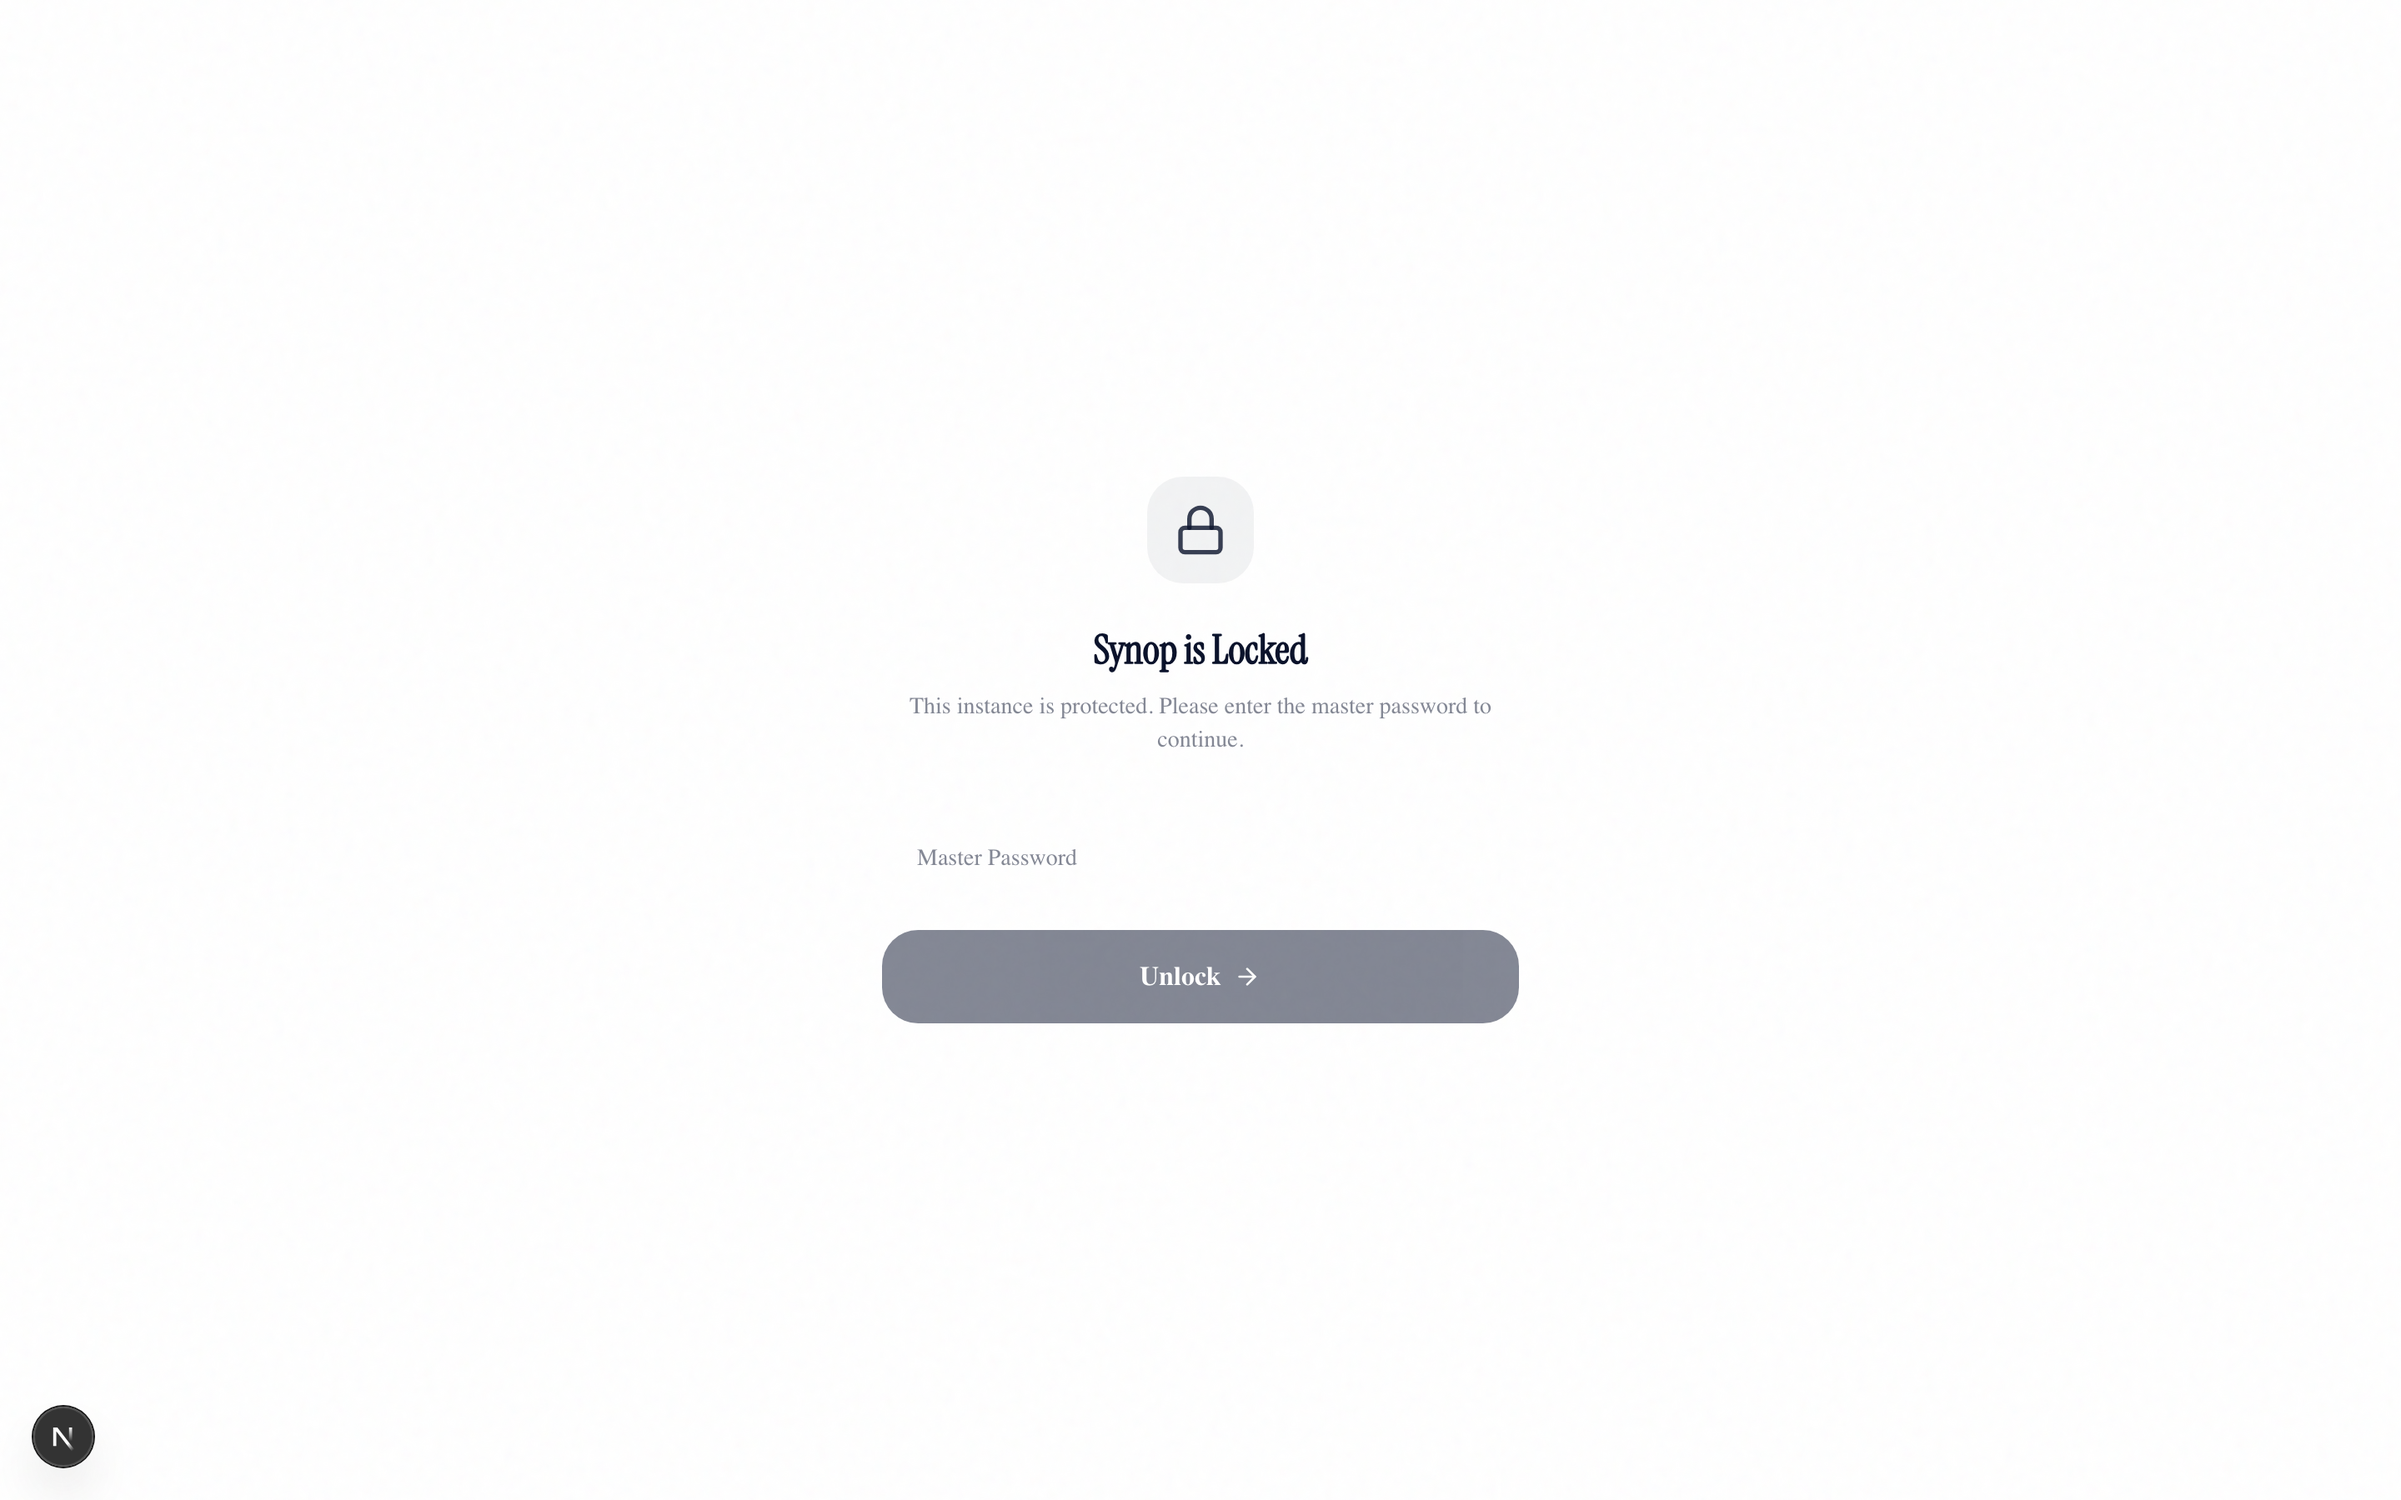
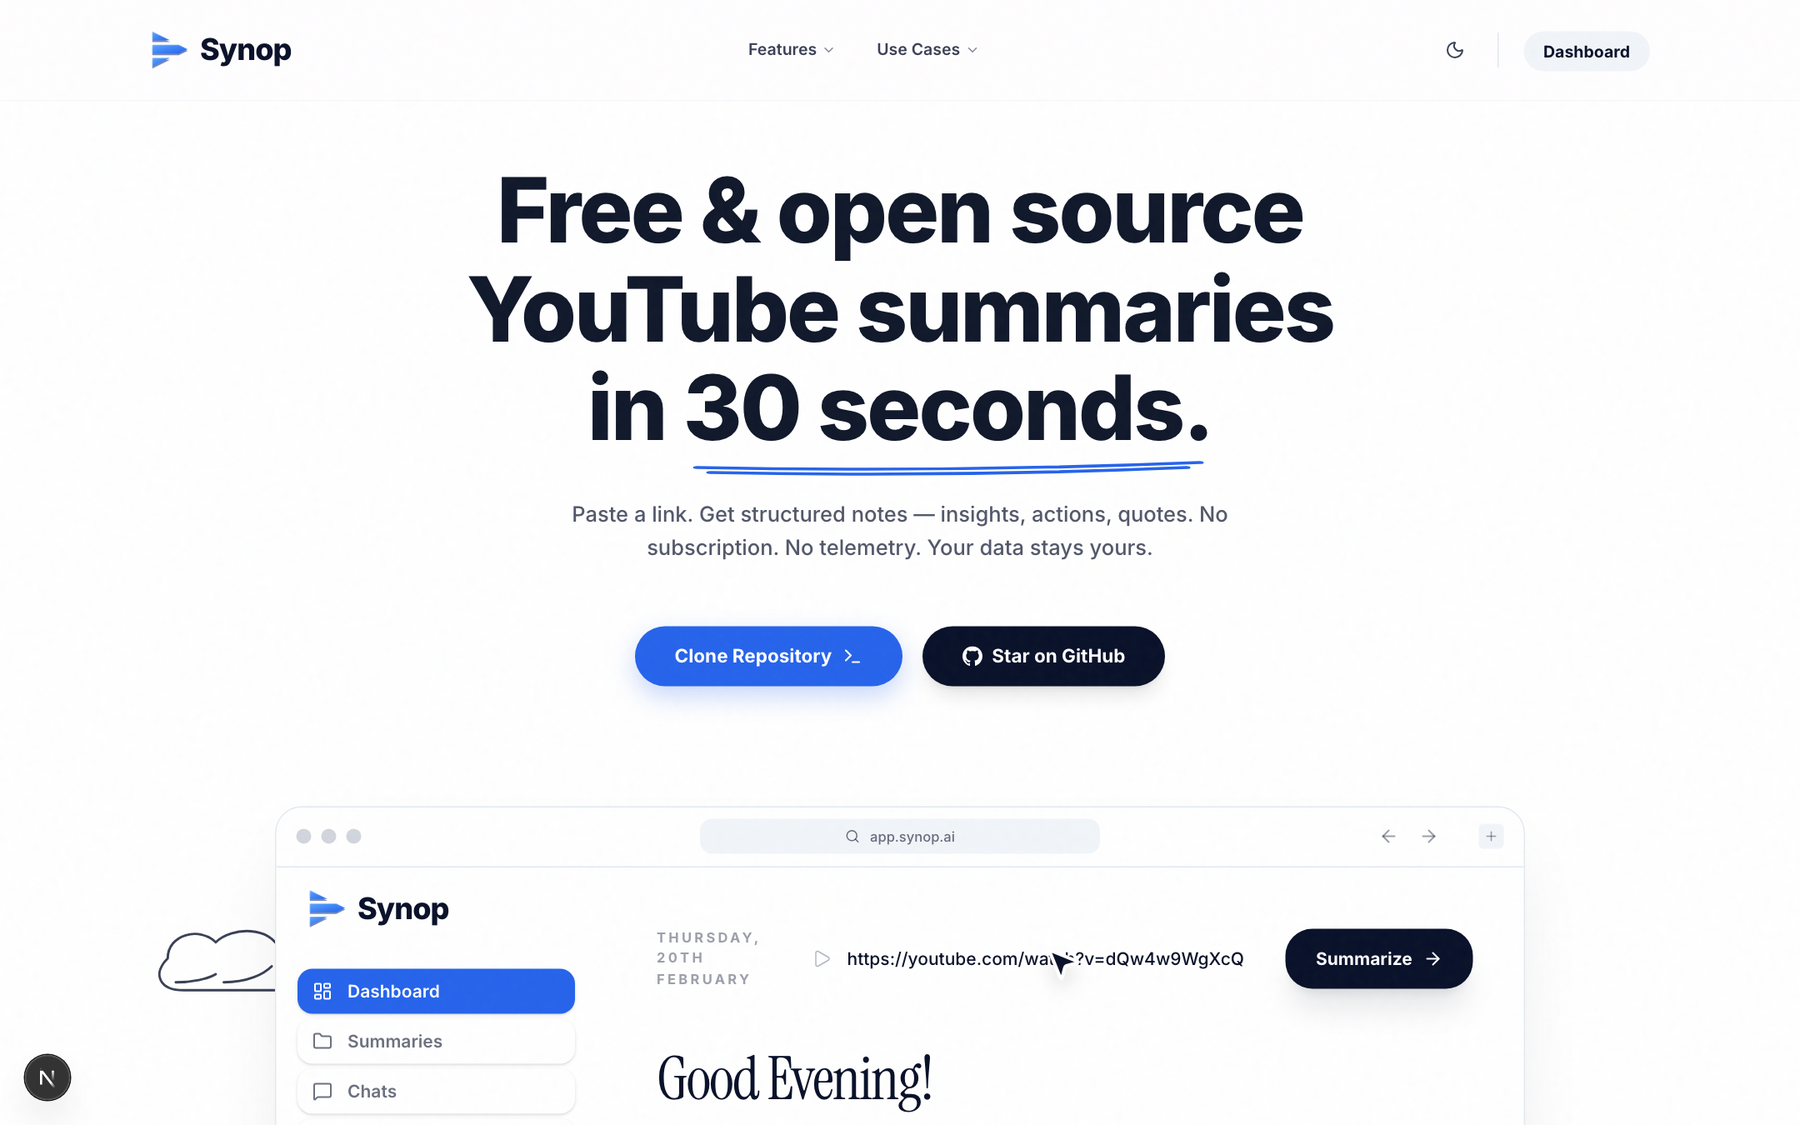
v2.0.0: powerful README with real dashboard screenshots
- Version bump to 2.0.0 + shields/badges in README
- New screenshot gallery: landing, Briefing, Summaries, Library, Channels,
  Settings, summary analysis, Study Mode (captured live via Playwright)
- Screenshot script for maintainers (scripts/screenshots.js)
- Remove stale old-version screenshots

diff --git a/scripts/screenshots.js b/scripts/screenshots.js
@@ -1,0 +1,62 @@
+// Generate README screenshots. Requires the dev server running (npm run dev -p 3001).
+// Usage: node scripts/screenshots.js
+const { chromium } = require('playwright');
+
+const BASE = 'http://localhost:3001';
+const OUT = 'public/screenshots';
+
+(async () => {
+  const browser = await chromium.launch();
+  const page = await browser.newPage({ viewport: { width: 1440, height: 900 }, deviceScaleFactor: 1.5 });
+  // Seed a persona so the dashboard renders in "student mode".
+  await page.addInitScript(() => {
+    try {
+      localStorage.setItem('synop_persona', 'student');
+      localStorage.setItem('synop_language', 'English');
+    } catch {}
+  });
+
+  const shot = async (name) => {
+    await page.waitForTimeout(2200);
+    await page.screenshot({ path: `${OUT}/${name}.png` });
+    console.log('  saved', name);
+  };
+
+  console.log('→ landing');
+  await page.goto(BASE + '/', { waitUntil: 'load' });
+  await shot('landing');
+
+  console.log('→ briefing (dashboard default)');
+  await page.goto(BASE + '/dashboard', { waitUntil: 'load' });
+  await page.waitForSelector('text=Your Briefing', { timeout: 15000 }).catch(() => {});
+  await shot('dashboard-briefing');
+
+  console.log('→ summaries');
+  await page.getByText('Summaries', { exact: true }).first().click({ timeout: 5000 }).catch(() => {});
+  await shot('dashboard-summaries');
+
+  console.log('→ library');
+  await page.getByText('Library', { exact: true }).first().click({ timeout: 5000 }).catch(() => {});
+  await page.waitForTimeout(3000);
+  await shot('dashboard-library');
+
+  console.log('→ channels');
+  await page.getByText('Channels', { exact: true }).first().click({ timeout: 5000 }).catch(() => {});
+  await shot('dashboard-channels');
+
+  console.log('→ settings');
+  await page.getByText('Settings', { exact: true }).first().click({ timeout: 5000 }).catch(() => {});
+  await shot('dashboard-settings');
+
+  console.log('→ summary (topics)');
+  await page.goto(BASE + '/summary/okSKt_C_SE8', { waitUntil: 'load' });
+  await page.waitForTimeout(4500);
+  await shot('summary');
+
+  console.log('→ study mode');
+  await page.getByText('Study Mode', { exact: true }).first().click({ timeout: 5000 }).catch(() => {});
+  await shot('study-mode');
+
+  await browser.close();
+  console.log('done');
+})();

diff --git a/README.md b/README.md
@@ -1,115 +1,144 @@
 <div align="center">
-  <img src="/logo.svg" alt="Synop" width="64" height="64" />
+  <img src="public/logo.svg" alt="Synop" width="72" height="72" />
 
   <h1 align="center">Synop</h1>
 
   <p align="center">
-    <strong>Turn any YouTube video into a study deck, a research brief, or a shareable note.</strong>
+    <strong>Your YouTube watch-time, turned into a study deck, a research brief, or a shareable note.</strong>
     <br />
-    Free · open source · bring-your-own-key. It reshapes itself around <em>who you are</em> — student, researcher, or creator.
+    A persona-aware AI tool that reshapes every video around <em>who you are</em> — student, researcher, or creator.
   </p>
 
   <p align="center">
-    <a href="#features">Features</a> •
-    <a href="#quick-start">Quick Start</a> •
-    <a href="#bring-your-own-keys">BYOK</a> •
-    <a href="#tech-stack">Tech Stack</a> •
-    <a href="#license">License</a>
+    <a href="https://github.com/sharadvc/synop/releases"><img src="https://img.shields.io/badge/version-2.0.0-blue" alt="Version 2.0.0" /></a>
+    <img src="https://img.shields.io/badge/license-MIT-green" alt="MIT License" />
+    <img src="https://img.shields.io/badge/Next.js-16-black" alt="Next.js 16" />
+    <img src="https://img.shields.io/badge/stack-OpenAI--compatible-purple" alt="Any OpenAI-compatible provider" />
+    <img src="https://img.shields.io/badge/PRs-welcome-orange" alt="PRs welcome" />
+    <img src="https://img.shields.io/github/stars/sharadvc/synop" alt="GitHub stars" />
+  </p>
+
+  <p align="center">
+    <strong>100% free · open source · bring your own key · runs entirely on your machine</strong>
   </p>
 </div>
 
 ---
 
-## What is Synop?
+## Why Synop?
 
-Synop is a **persona-aware** YouTube-to-knowledge tool. Paste a link and it doesn't just summarize — it reshapes the output around your workflow:
+Most "YouTube summarizers" give everyone the same generic summary. Synop doesn't.
 
-- 🎓 **Student** → lecture notes, flashcards, quiz, spaced-repetition review, whole-course Anki exports
-- 🔬 **Researcher** → dense, citation-grade summaries, claim fact-checking, bias analysis
-- ✍ **Creator** → quotable moments, resources, and frameworks you can repurpose
+**It asks who you are — then reshapes everything around your job:**
 
-Every feature works even when the AI provider is down — deterministic fallbacks keep every tab showing real content.
+| 🎓 Student | 🔬 Researcher / Analyst | ✍ Creator / Writer |
+|---|---|---|
+| Lecture notes, flashcards, quiz, spaced-repetition review | Citation-grade dossiers, claim fact-checking, bias analysis | Quotable moments, resources, and mental models to repurpose |
+| Whole-course playlists → one Anki deck | Obsidian/Notion sync with `[[Wiki-Links]]` | Clean markdown/PDF exports |
+| The summaries themselves are written in study-tutor style | The summaries are written in research-analyst style | The summaries surface the sharable gold |
+
+The content isn't just reordered — **the AI writes differently per persona**.
+
+And because it's built for reliability: **every feature works even when AI providers are down**, with deterministic fallbacks that always show a real result.
+
+---
+
+## Screenshots
+
+| | |
+|---|---|
+| **Landing** | **Daily Briefing** |
+| <img src="https://raw.githubusercontent.com/sharadvc/synop/main/public/screenshots/landing.png" width="100%" /> | <img src="https://raw.githubusercontent.com/sharadvc/synop/main/public/screenshots/dashboard-briefing.png" width="100%" /> |
+| **Summaries library** | **The Library — cross-video knowledge base** |
+| <img src="https://raw.githubusercontent.com/sharadvc/synop/main/public/screenshots/dashboard-summaries.png" width="100%" /> | <img src="https://raw.githubusercontent.com/sharadvc/synop/main/public/screenshots/dashboard-library.png" width="100%" /> |
+| **Channel watchlist** | **Settings — BYOK & custom providers** |
+| <img src="https://raw.githubusercontent.com/sharadvc/synop/main/public/screenshots/dashboard-channels.png" width="100%" /> | <img src="https://raw.githubusercontent.com/sharadvc/synop/main/public/screenshots/dashboard-settings.png" width="100%" /> |
+| **Video analysis (Topics)** | **Study Mode (flashcards)** |
+| <img src="https://raw.githubusercontent.com/sharadvc/synop/main/public/screenshots/summary.png" width="100%" /> | <img src="https://raw.githubusercontent.com/sharadvc/synop/main/public/screenshots/study-mode.png" width="100%" /> |
+
+---
 
 ## Features
 
-### Persona-tailored content
-On first run you pick who you are. The summaries, the tabs, and the default experience change to match — a student gets study material, a researcher gets a research dossier.
-
-### 🧠 The Library (compounding knowledge base)
-Search across every summary, browse a cross-video topic map that grows as you add videos, and **ask your whole library** a question. The more you summarize, the smarter it gets.
+### 🧠 The Library — a compounding knowledge base
+Every summary you add grows a searchable library: a **cross-video topic map**, full-text search across everything, and **"ask your whole library"** — LLM synthesis over all your videos. The more you use it, the smarter it gets.
 
 ### 📬 Daily Briefing
-One screen: new uploads from your watched channels + your recent library. A reason to open the app every day.
+One screen every morning: new uploads from your watched channels + your recent library. A reason to open the app.
 
 ### 🎓 Study Mode
 - **Flashcards** + **Quiz** built from the video's frameworks, topics, quotes, and critiques
-- **Spaced-repetition Review** (SM-2 style, Again/Good/Easy) — kept in-app
-- **Whole-course study**: paste a playlist → batch-summarize → one Anki deck across every lecture
+- **Spaced-repetition Review** (SM-2 style: Again / Good / Easy) — kept in-app, no export needed
+- **Whole-course study**: paste a playlist → batch-summarize every lecture → one Anki deck across the course
 
-### 🔬 Analysis (per video)
+### 🔬 Per-video analysis
 - **Semantic Topic Clusters** — content grouped by theme, not timestamp
-- **Multi-Speaker Debate Matrix** — stances and points of contention
+- **Multi-Speaker Debate Matrix** — each speaker's stance and points of contention
 - **Freshness / Temporal Decay** — claims fact-checked against current data
 - **Bias & Critique** — adversarial analysis of the creator's assumptions
 
 ### 📡 Channel Watchlist
-Add your favorite channels. New uploads get **auto-summarized** into your library.
+Follow your favorite channels — new uploads are **auto-summarized** into your library.
 
 ### 🔌 Bring Your Own Keys
-No subscription. Add any OpenAI-compatible provider — OpenAI, DeepSeek, Groq, OpenRouter, a local Ollama server — with a live model picker. Fallbacks: OpenRouter → Groq → Gemini.
+No subscription, no account, no server. Add **any OpenAI-compatible provider** — OpenAI, DeepSeek, Groq, OpenRouter, or a local Ollama server — with a **live model picker** that fetches the real model list. Fallback chain: custom → OpenRouter → Groq → Gemini.
 
 ### 📤 Export
-Markdown, PDF, or sync to **Obsidian** / **Notion** with `[[Wiki-Links]]`.
+Markdown, PDF, or sync to **Obsidian** / **Notion** with auto-generated `[[Wiki-Links]]`.
+
+---
 
 ## Quick Start
 
-### Prerequisites
-- Node.js 18+
-- An AI API key (see [BYOK](#bring-your-own-keys))
-
-### Install & run
 ```bash
 git clone https://github.com/sharadvc/synop.git
 cd synop
 npm install
 npx prisma generate
-npx prisma db push          # creates the SQLite database
-cp .env.example .env.local  # add your keys
+npx prisma db push        # creates the SQLite database
+cp .env.example .env.local  # add your AI key
 npm run dev
 ```
 
-Open `http://localhost:3000`.
+Open **http://localhost:3000** — the first time you enter the dashboard you'll pick your persona.
 
-> The first time you open the dashboard you'll pick your persona. Change it anytime in **Settings → Your Role**.
+> **Requirements:** Node.js 18+, and an AI API key. The easiest path is OpenRouter (free models) or any OpenAI-compatible key — see below.
 
-## Bring Your Own Keys
+### Add an AI key (BYOK)
 
-Keys are entered in **Settings** and stored in your browser — nothing leaves your machine except the requests to your chosen provider.
-
-| Provider | How to configure |
+| Where | What |
 |---|---|
-| **Custom (recommended)** | Settings → Custom AI Providers → paste any OpenAI-compatible base URL + key → **Fetch live models** → pick. Works with OpenAI, DeepSeek, Ollama, Together, OpenRouter, anything. |
-| Gemini / Groq / OpenRouter | Settings → Bring Your Own Keys |
-| YouTube Data API v3 | Required for reliable **playlist + channel** fetching. Free key from Google Cloud Console → set `YOUTUBE_API_KEY`. |
+| **Settings → Custom AI Providers** | Paste any OpenAI-compatible base URL + key → **Fetch live models** → pick. Works with OpenAI, DeepSeek, Ollama, Together, OpenRouter, anything. |
+| **Settings → Bring Your Own Keys** | Gemini / Groq / OpenRouter keys |
+| **`YOUTUBE_API_KEY`** | Free YouTube Data API v3 key — required for reliable **playlist** and **channel watchlist** fetching. |
+
+Keys are stored in your browser's local storage and sent per-request — nothing else leaves your machine.
+
+---
 
 ## Tech Stack
 
-- **Framework**: Next.js 16 (App Router, Turbopack)
-- **Styling**: Tailwind CSS v4 + glassmorphism
-- **Database**: Prisma + SQLite (local, zero-config)
-- **AI**: any OpenAI-compatible endpoint, via a provider-fallback chain with deterministic no-LLM fallbacks
-- **Persona engine**: prompt tailoring + per-persona summary storage + tab reordering
+- **Framework** — Next.js 16 (App Router, Turbopack)
+- **Styling** — Tailwind CSS v4, glassmorphism UI
+- **Database** — Prisma + SQLite (local, zero-config)
+- **AI** — any OpenAI-compatible endpoint via a provider-fallback chain, with deterministic no-LLM fallbacks so every feature always returns a result
+- **Persona engine** — prompt tailoring + per-persona summary storage + persona-specific tab layouts
+
+## Roadmap
+
+- [x] Persona-tailored content (student / researcher / creator)
+- [x] Cross-video Library + "ask your whole library"
+- [x] Spaced-repetition review in-app
+- [x] Channel watchlist with auto-summarize
+- [x] Custom AI providers (any endpoint)
+- [ ] Streaks & daily review nudge
+- [ ] Course progress tracking (lectures done, next-up, mastery)
+- [ ] Shareable public study decks
+- [ ] Self-hosted sync / optional accounts
 
 ## Contributing
 
-Contributions are welcome — docs, bug reports, features, translations.
-
-1. Fork the project
-2. Create a feature branch (`git checkout -b feat/your-feature`)
-3. Commit your changes
-4. Push and open a Pull Request
-
-See [CONTRIBUTING.md](CONTRIBUTING.md) and our [Code of Conduct](CODE_OF_CONDUCT.md).
+Contributions are welcome — bugs, docs, features, translations. See [CONTRIBUTING.md](CONTRIBUTING.md) and our [Code of Conduct](CODE_OF_CONDUCT.md).
 
 ## License
 
